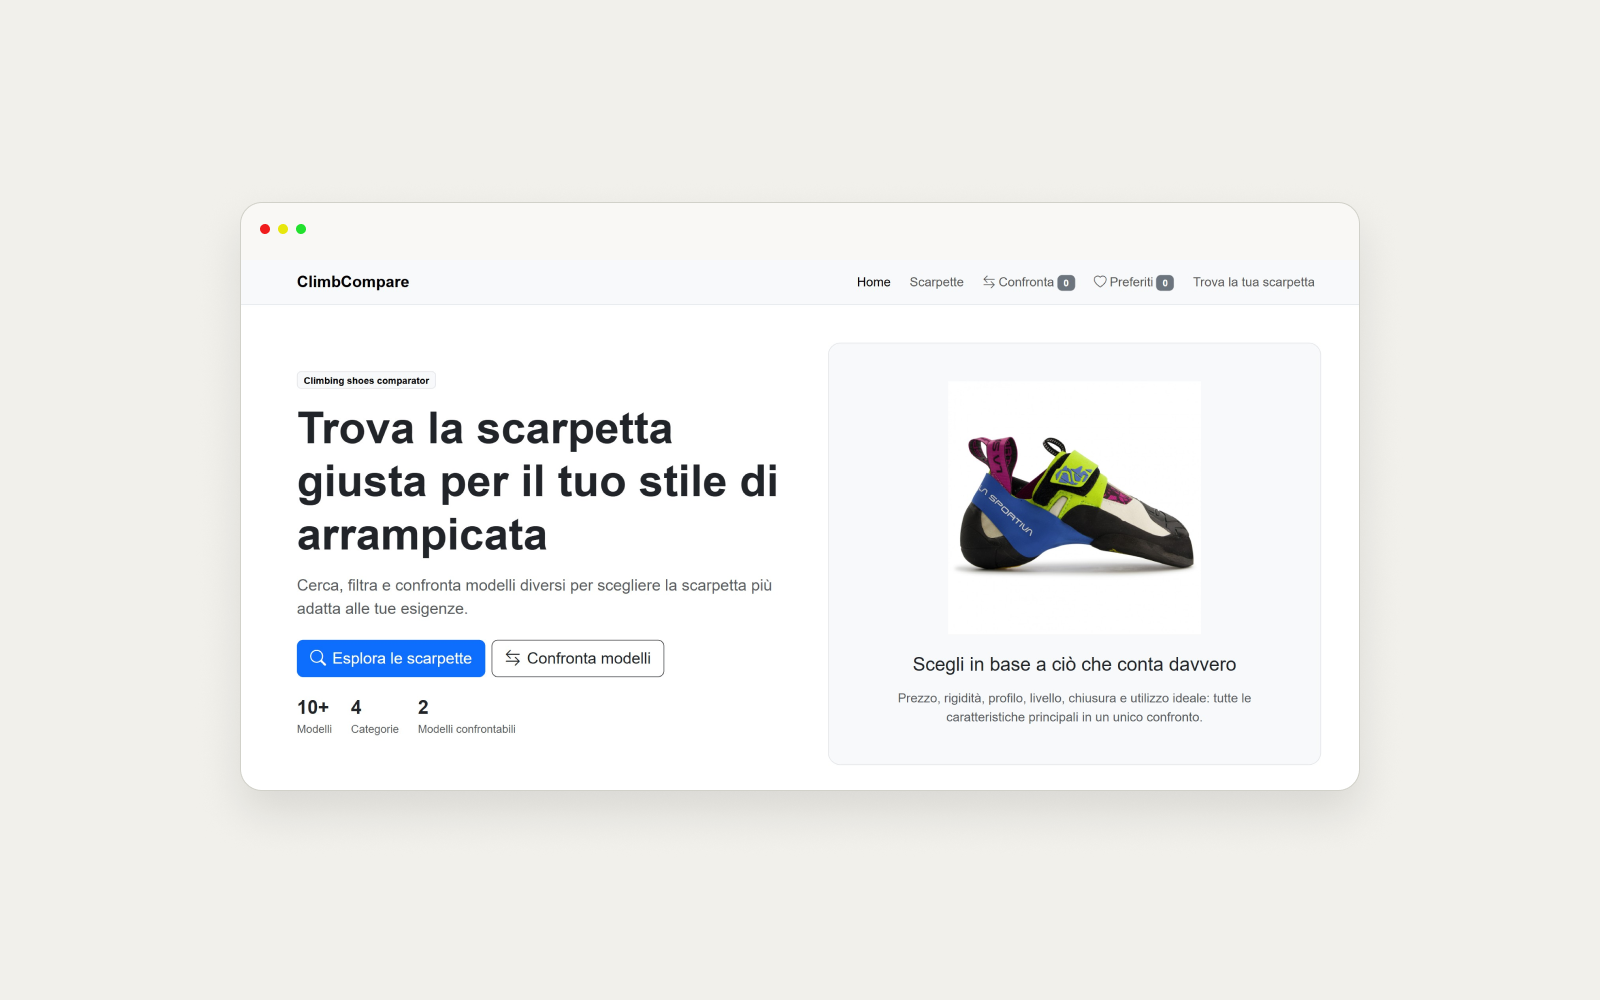
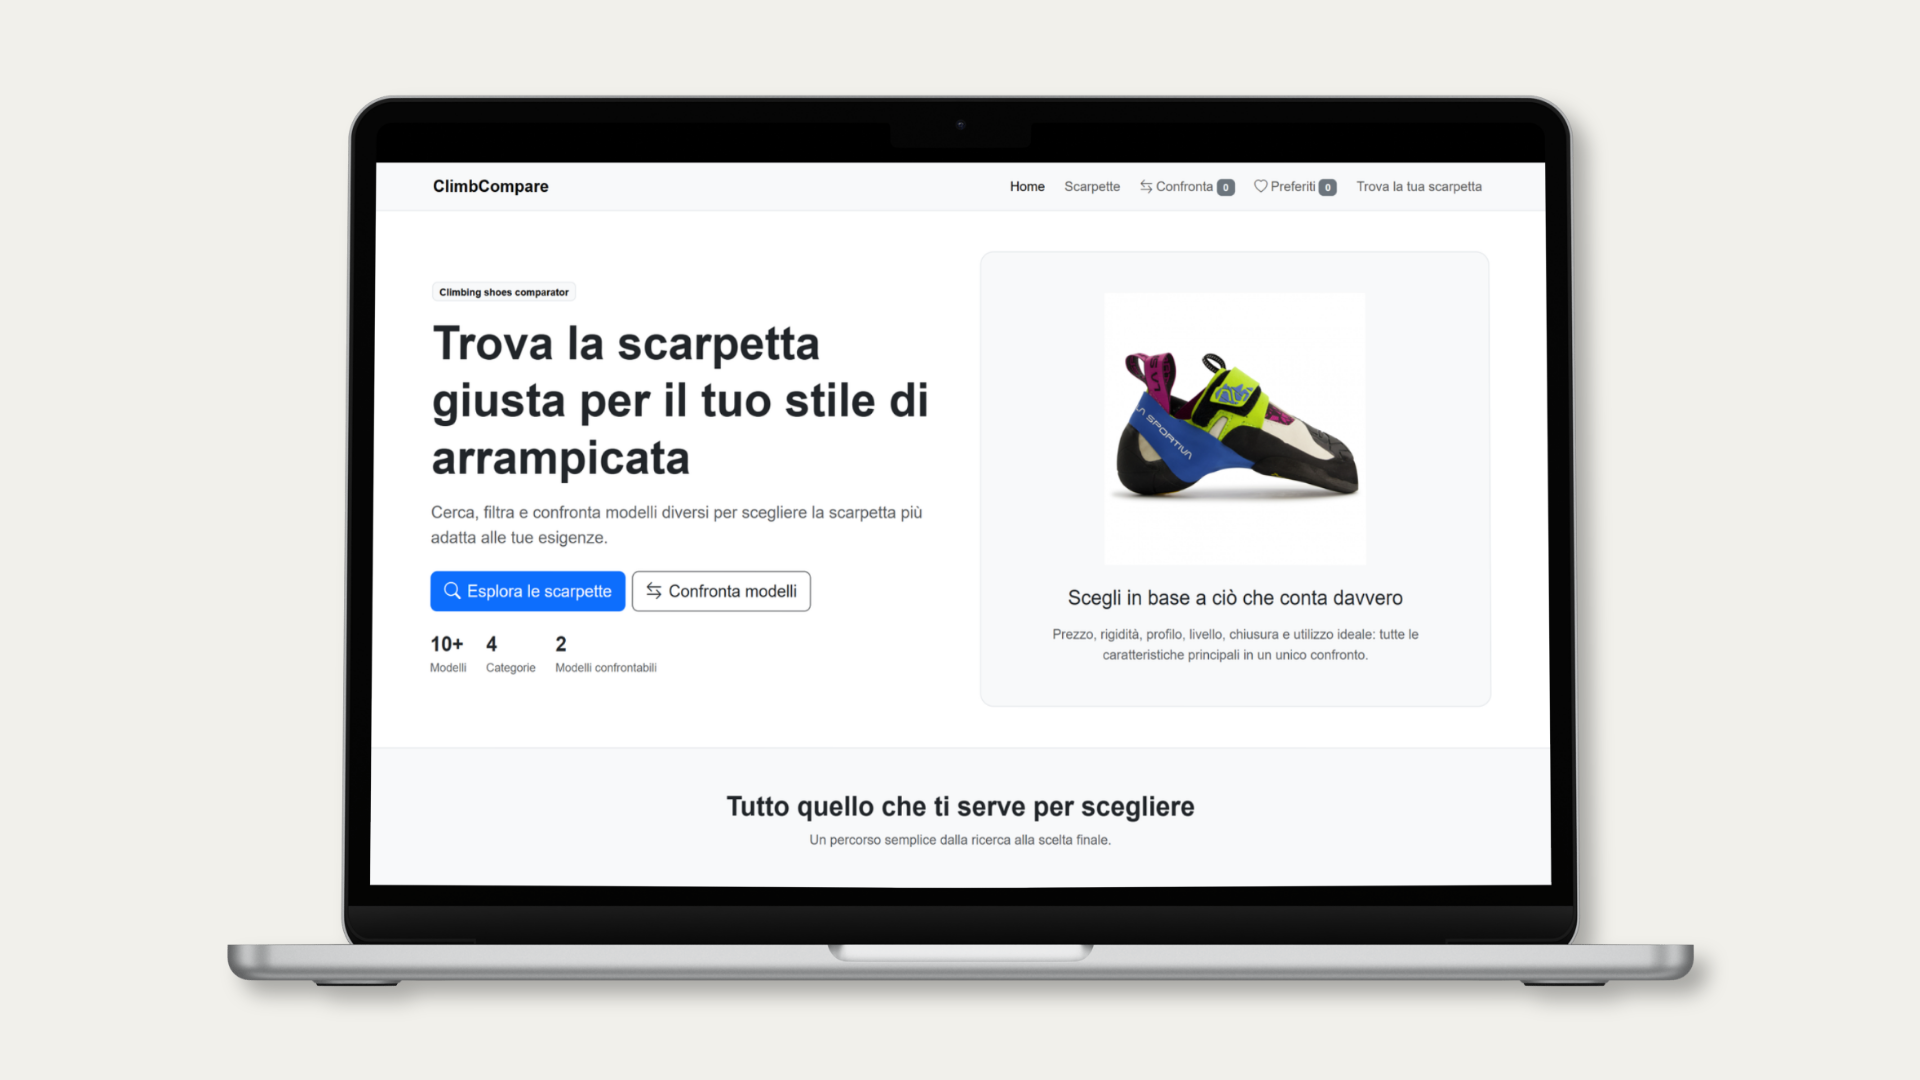
modificato cover

Changed region(s): [[0.0938, 0.062, 0.9062, 0.93]]

diff --git a/src/data/projects.js b/src/data/projects.js
@@ -349,7 +349,8 @@ const projects = [
             "Wireframing",
         ],
 
-        image: "/images/monte-bondone-cover.jpg",
+        image: "/images/monte-bondone-cover.png",
+        heroImage: "/images/monte-bondone-hero.png",
 
         github: null,
 
